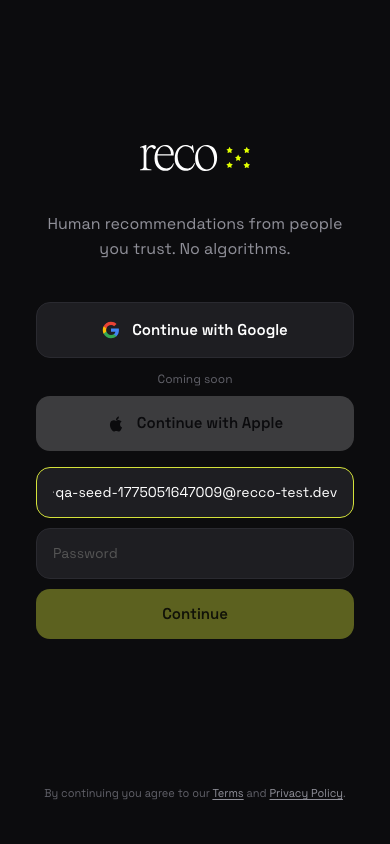
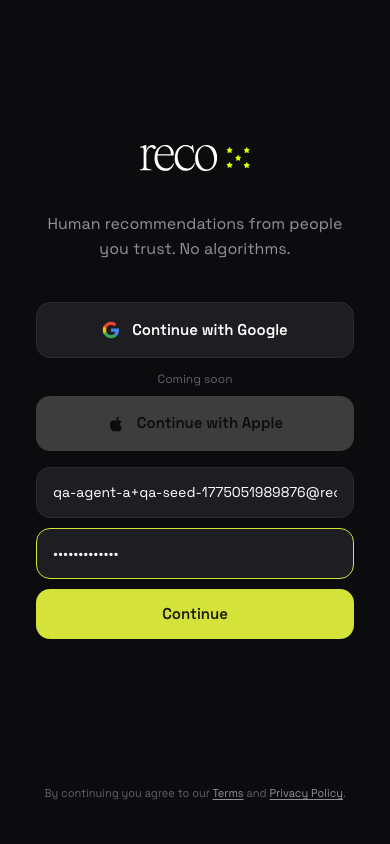
Fix email login: wrap in form tag, add type=submit to Continue button
QA agent was generating selector button[type=submit] which didn't exist.
Now the email form is a proper <form> with type=submit on Continue.
Enter key also works via form submission. Removed duplicate onKeyDown.

Changed region(s): [[0.0923, 0.6469, 0.9231, 0.7701], [0.2769, 0.5545, 0.8615, 0.6161], [0.0923, 0.5545, 0.2769, 0.6469]]

diff --git a/src/app/(auth)/login/page.tsx b/src/app/(auth)/login/page.tsx
@@ -126,7 +126,7 @@ function LoginForm() {
                 Sign in with email instead
               </button>
             ) : (
-              <div className="flex flex-col gap-2.5">
+              <form className="flex flex-col gap-2.5" onSubmit={(e) => { e.preventDefault(); signInWithEmail() }}>
                 <input
                   type="email"
                   placeholder="Email"
@@ -134,6 +134,7 @@ function LoginForm() {
                   onChange={(e) => setEmail(e.target.value)}
                   className="w-full bg-[#1e1e22] border border-border rounded-btn px-4 py-3.5 text-[14px] text-white outline-none placeholder:text-[#555] focus:border-accent font-sans"
                   data-testid="email-input"
+                  name="email"
                   autoComplete="email"
                 />
                 <input
@@ -141,13 +142,13 @@ function LoginForm() {
                   placeholder="Password"
                   value={password}
                   onChange={(e) => setPassword(e.target.value)}
-                  onKeyDown={(e) => { if (e.key === 'Enter') signInWithEmail() }}
                   className="w-full bg-[#1e1e22] border border-border rounded-btn px-4 py-3.5 text-[14px] text-white outline-none placeholder:text-[#555] focus:border-accent font-sans"
                   data-testid="password-input"
+                  name="password"
                   autoComplete="current-password"
                 />
                 <button
-                  onClick={signInWithEmail}
+                  type="submit"
                   disabled={loading === 'email' || !email.trim() || !password.trim()}
                   className="w-full bg-accent text-accent-fg py-3.5 rounded-btn text-[15px] font-semibold disabled:opacity-40 transition-opacity"
                   data-testid="email-submit"
@@ -158,7 +159,7 @@ function LoginForm() {
                     'Continue'
                   )}
                 </button>
-              </div>
+              </form>
             )}
           </div>
 

diff --git a/qa-agent/reports/qa-report-2026-04-01T14-00-13.md b/qa-agent/reports/qa-report-2026-04-01T14-00-13.md
@@ -1,0 +1,41 @@
+# Recco QA Agent Report
+**Run:** Wed, 01 Apr 2026 14:00:13 GMT
+**Target:** https://givemeareco.com
+**Overall:** ⚠ Issues found — 1 bug(s) across 1 journey(s)
+
+---
+
+## Summary
+
+| Severity | Count |
+|----------|-------|
+| 🔴 Critical | 0 |
+| 🟠 High | 1 |
+| 🟡 Medium | 0 |
+| 🔵 Low | 0 |
+| **Total** | **1** |
+
+---
+
+## ⚠ Journey: New User Signup
+
+**Status:** bugs-found
+
+### 🐛 Bugs Found
+
+- 🟠 **[HIGH]** Failed to execute "click" — Could not click "button.continue, button[type='submit'], .continue-btn" _(at https://givemeareco.com/login?method=email)_ _(step 3)_
+
+### 📋 Steps Taken
+
+1. type: Typing the test email address into the Email field
+2. type: Typing the test password into the Password field
+3. click: Clicking the yellow 'Continue' button to proceed with signup/login
+4. ERROR: Failed to execute "click" — Could not click "button.continue, button[type='submit'], .continue-btn"
+
+---
+
+## Notes
+
+- Screenshots saved to `qa-agent/screenshots/`
+- Test user was automatically created and deleted from Supabase
+- Re-run with: `node qa-agent/index.js --url https://givemeareco.com`
